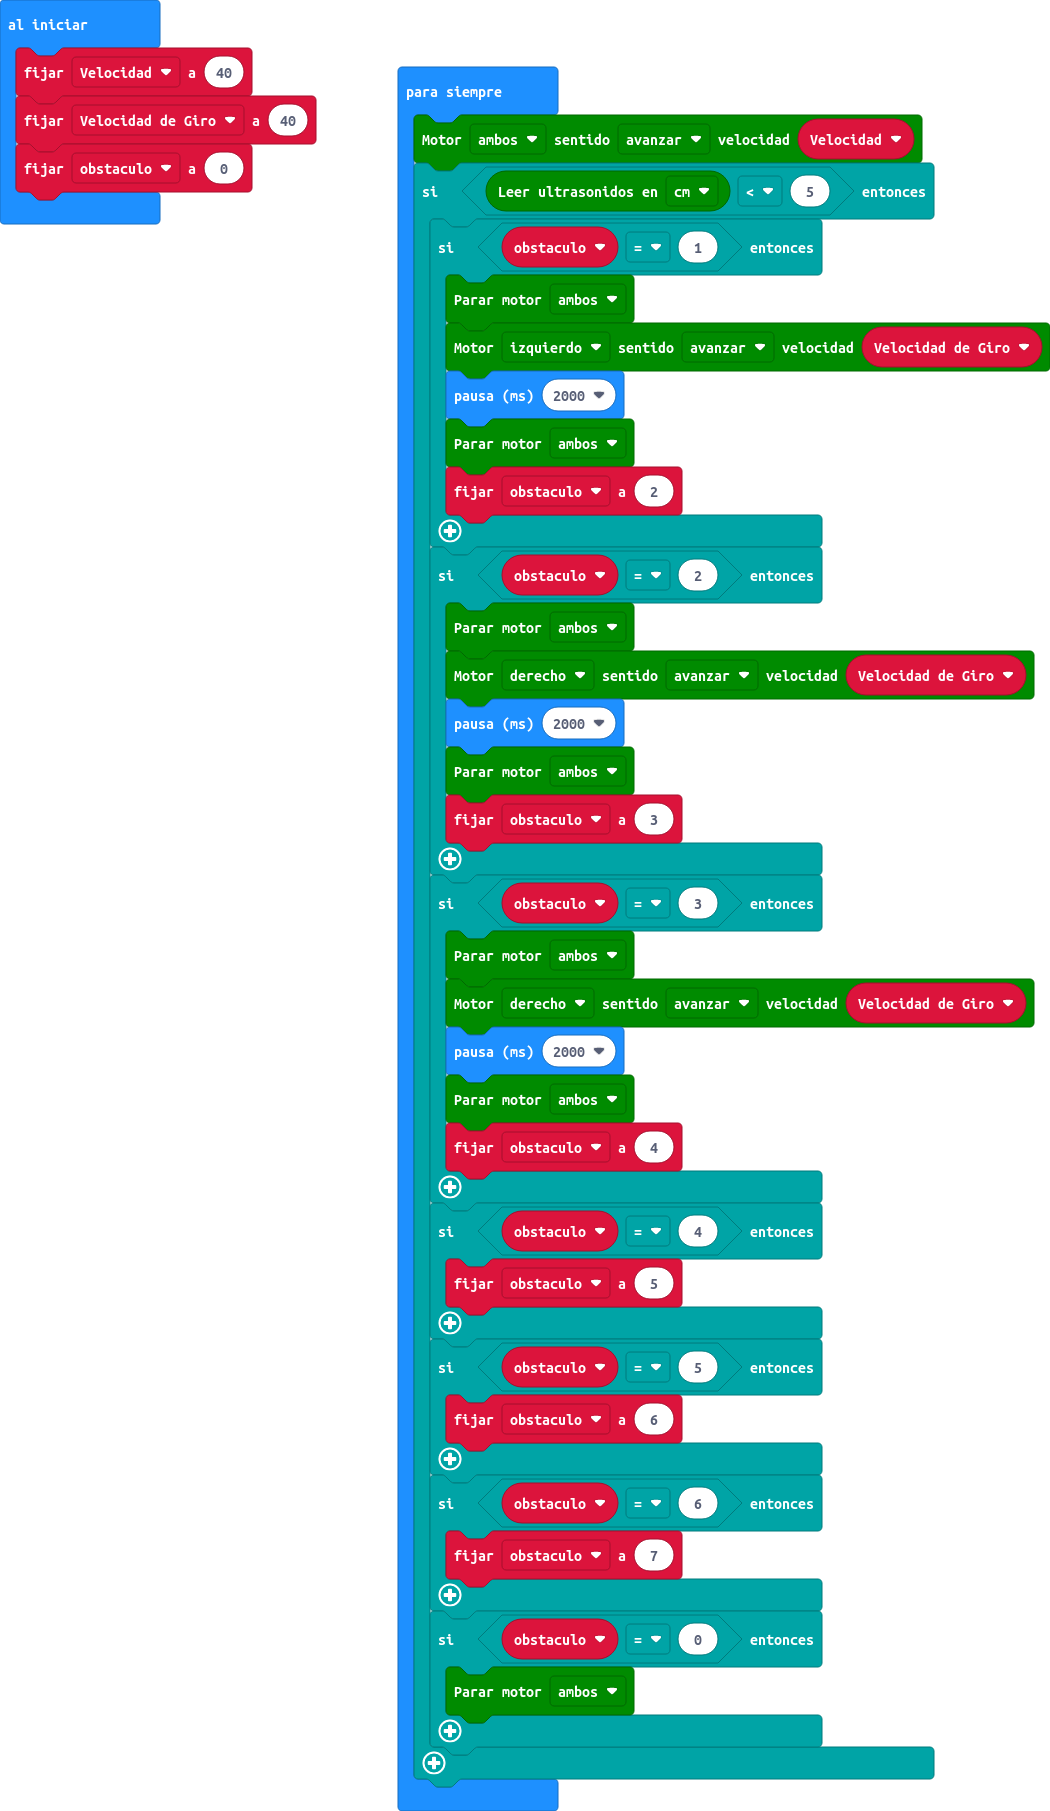
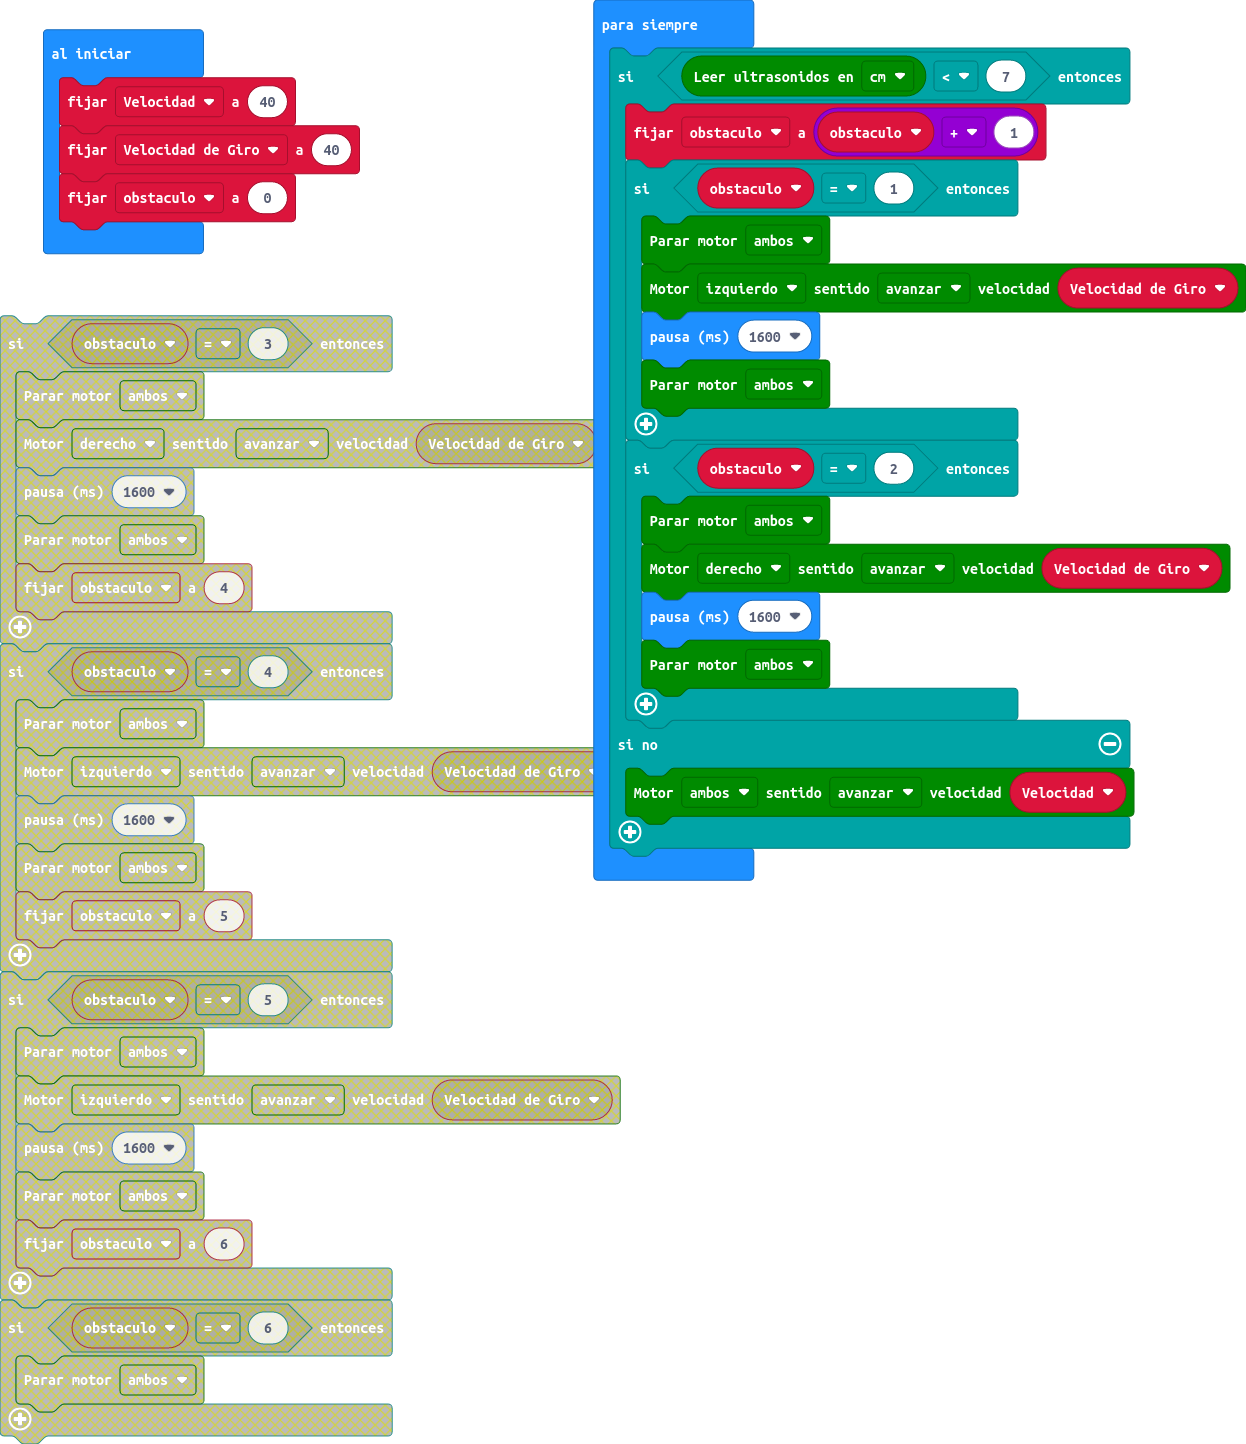
Actualizar main.blocks, main.ts

diff --git a/main.ts b/main.ts
@@ -2,40 +2,21 @@ let Velocidad = 40
 let Velocidad_de_Giro = 40
 let obstaculo = 0
 basic.forever(function () {
-    maqueen.motorRun(maqueen.Motors.All, maqueen.Dir.CW, Velocidad)
-    if (maqueen.Ultrasonic(PingUnit.Centimeters) < 5) {
+    if (maqueen.Ultrasonic(PingUnit.Centimeters) < 7) {
+        obstaculo = obstaculo + 1
         if (obstaculo == 1) {
             maqueen.motorStop(maqueen.Motors.All)
             maqueen.motorRun(maqueen.Motors.M1, maqueen.Dir.CW, Velocidad_de_Giro)
-            basic.pause(2000)
+            basic.pause(1600)
             maqueen.motorStop(maqueen.Motors.All)
-            obstaculo = 2
         }
         if (obstaculo == 2) {
             maqueen.motorStop(maqueen.Motors.All)
             maqueen.motorRun(maqueen.Motors.M2, maqueen.Dir.CW, Velocidad_de_Giro)
-            basic.pause(2000)
-            maqueen.motorStop(maqueen.Motors.All)
-            obstaculo = 3
-        }
-        if (obstaculo == 3) {
-            maqueen.motorStop(maqueen.Motors.All)
-            maqueen.motorRun(maqueen.Motors.M2, maqueen.Dir.CW, Velocidad_de_Giro)
-            basic.pause(2000)
-            maqueen.motorStop(maqueen.Motors.All)
-            obstaculo = 4
-        }
-        if (obstaculo == 4) {
-            obstaculo = 5
-        }
-        if (obstaculo == 5) {
-            obstaculo = 6
-        }
-        if (obstaculo == 6) {
-            obstaculo = 7
-        }
-        if (obstaculo == 0) {
+            basic.pause(1600)
             maqueen.motorStop(maqueen.Motors.All)
         }
+    } else {
+        maqueen.motorRun(maqueen.Motors.All, maqueen.Dir.CW, Velocidad)
     }
 })
